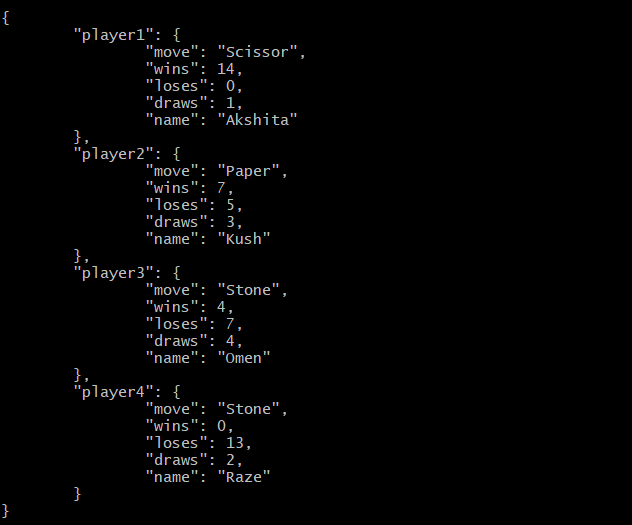
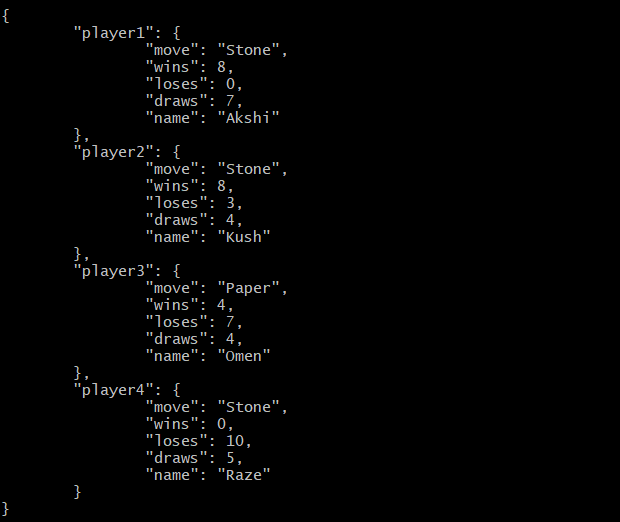
Added sample image. Changed simulation count to 50.

diff --git a/index.js b/index.js
@@ -2,10 +2,10 @@ const players = require('./src/game_logic/init_game.js');
 const score = require('./src/data_model/scoreboard.js');
 const stonePaperScissor = require('./src/game_logic/play_game.js');
 
-const simulationCount = 5;
+const simulationCount = 50;
 
 for(let i=0;i<simulationCount;i++){
 	console.log(`\t\t\t\t\tITERATION #${i+1}:\t\t\t\t\t`);
 	stonePaperScissor.playGame(players,score);
 }
-//console.log(`${JSON.stringify(players,null,'\t')}`);
+console.log(`${JSON.stringify(players,null,'\t')}`);
